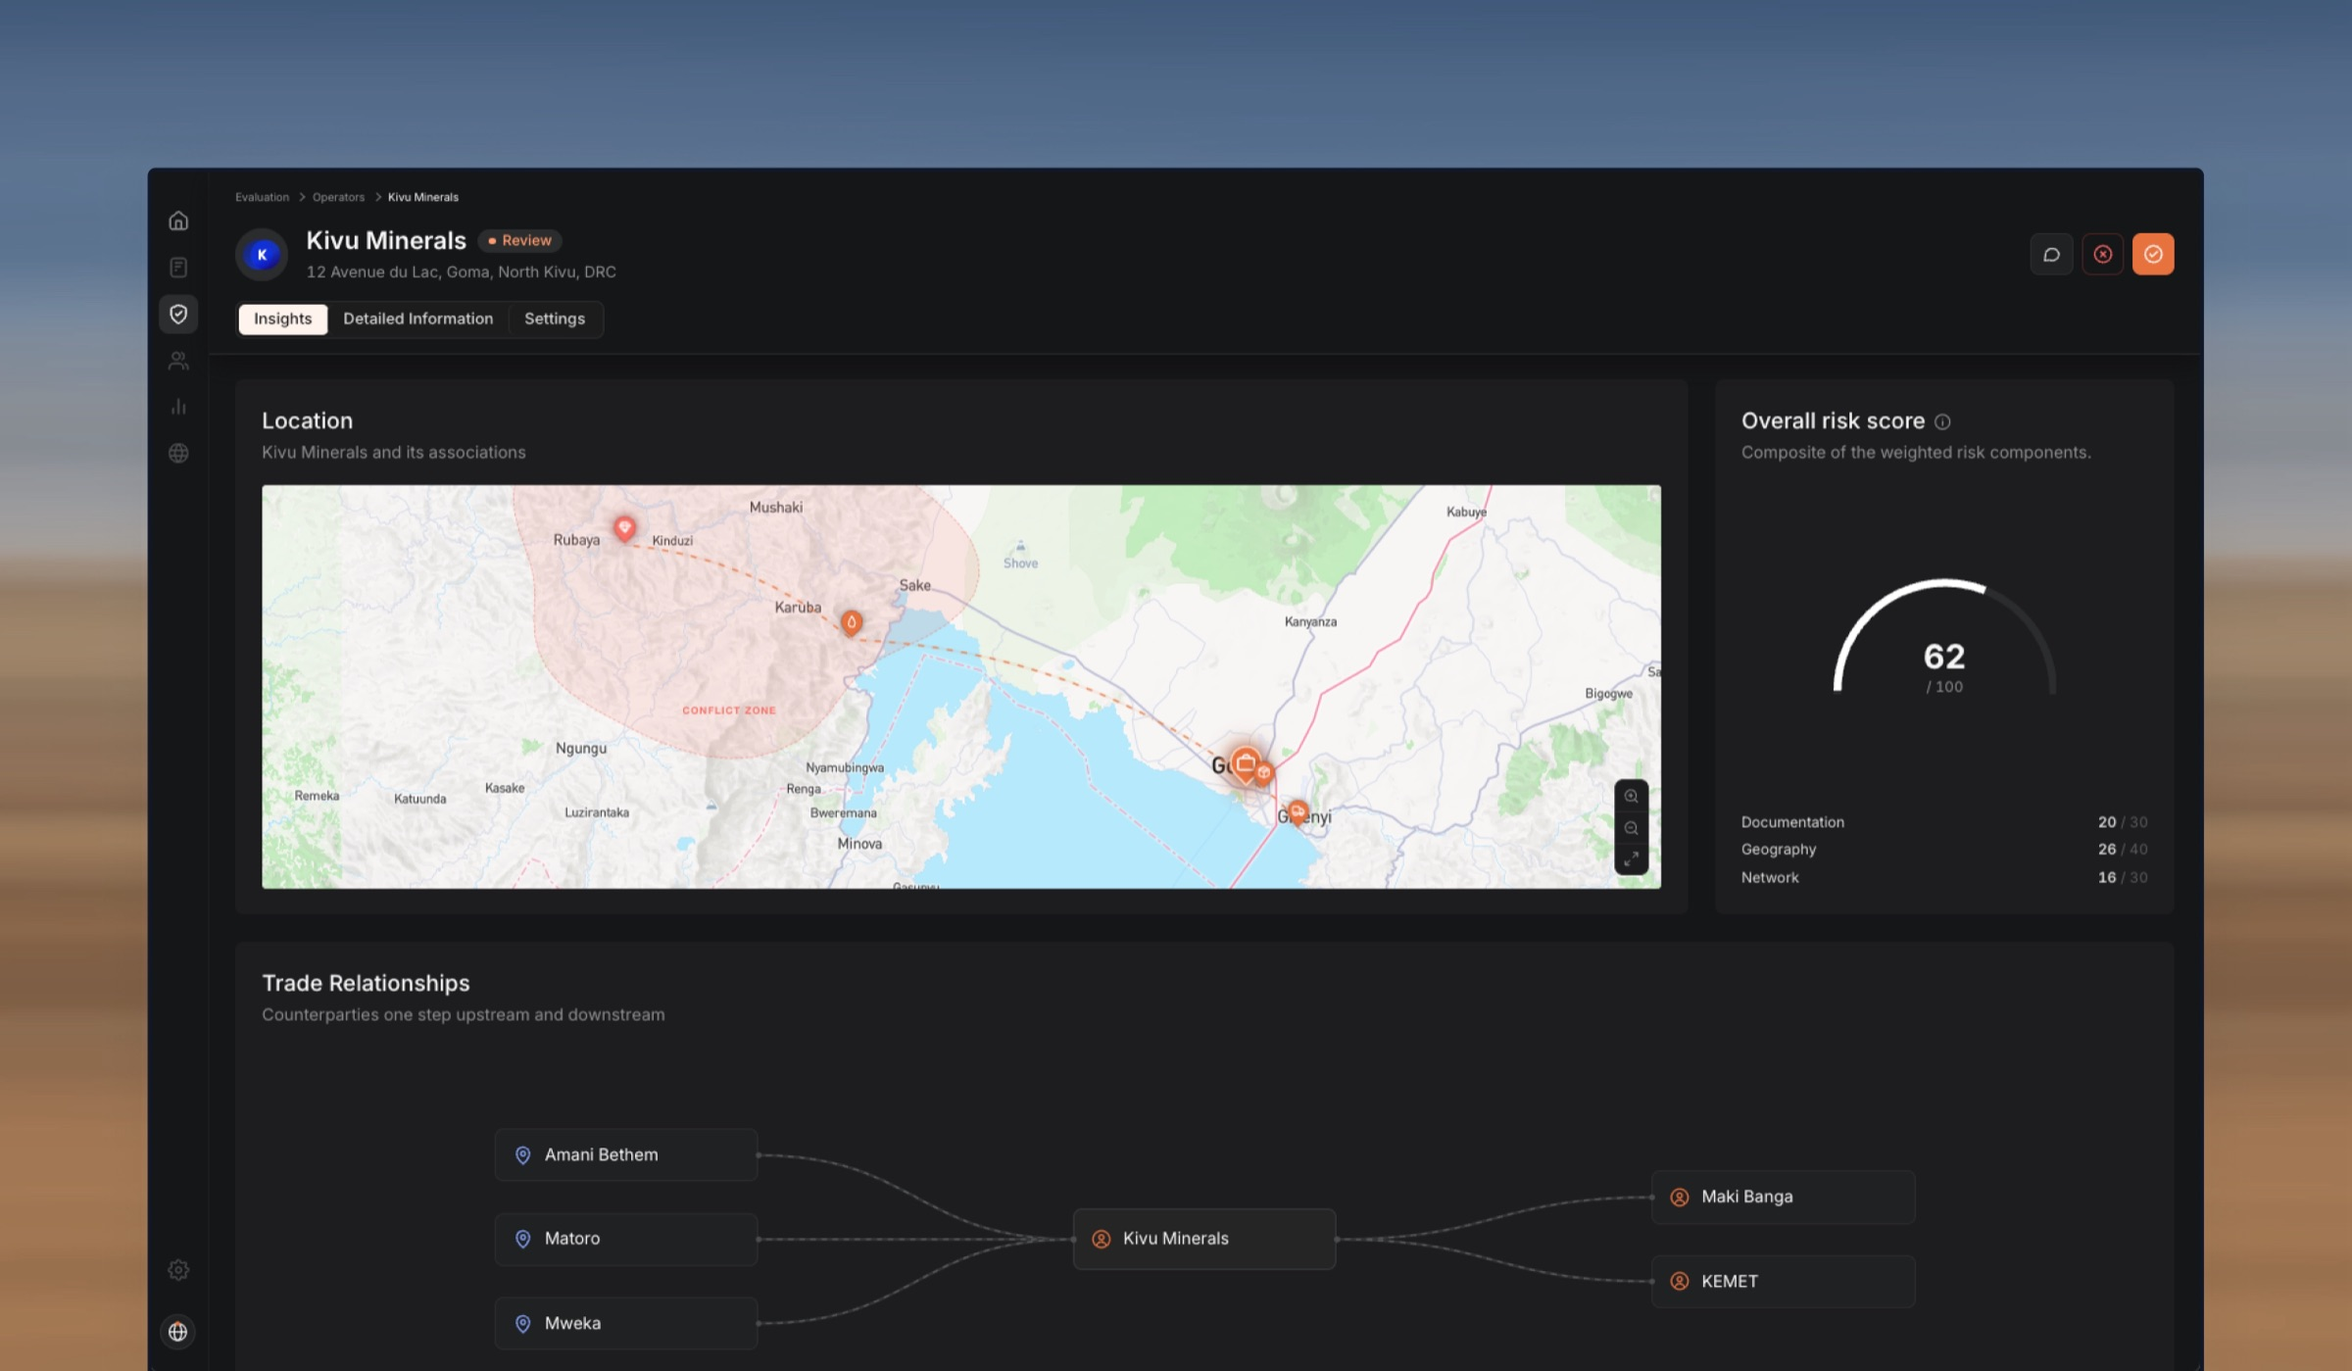
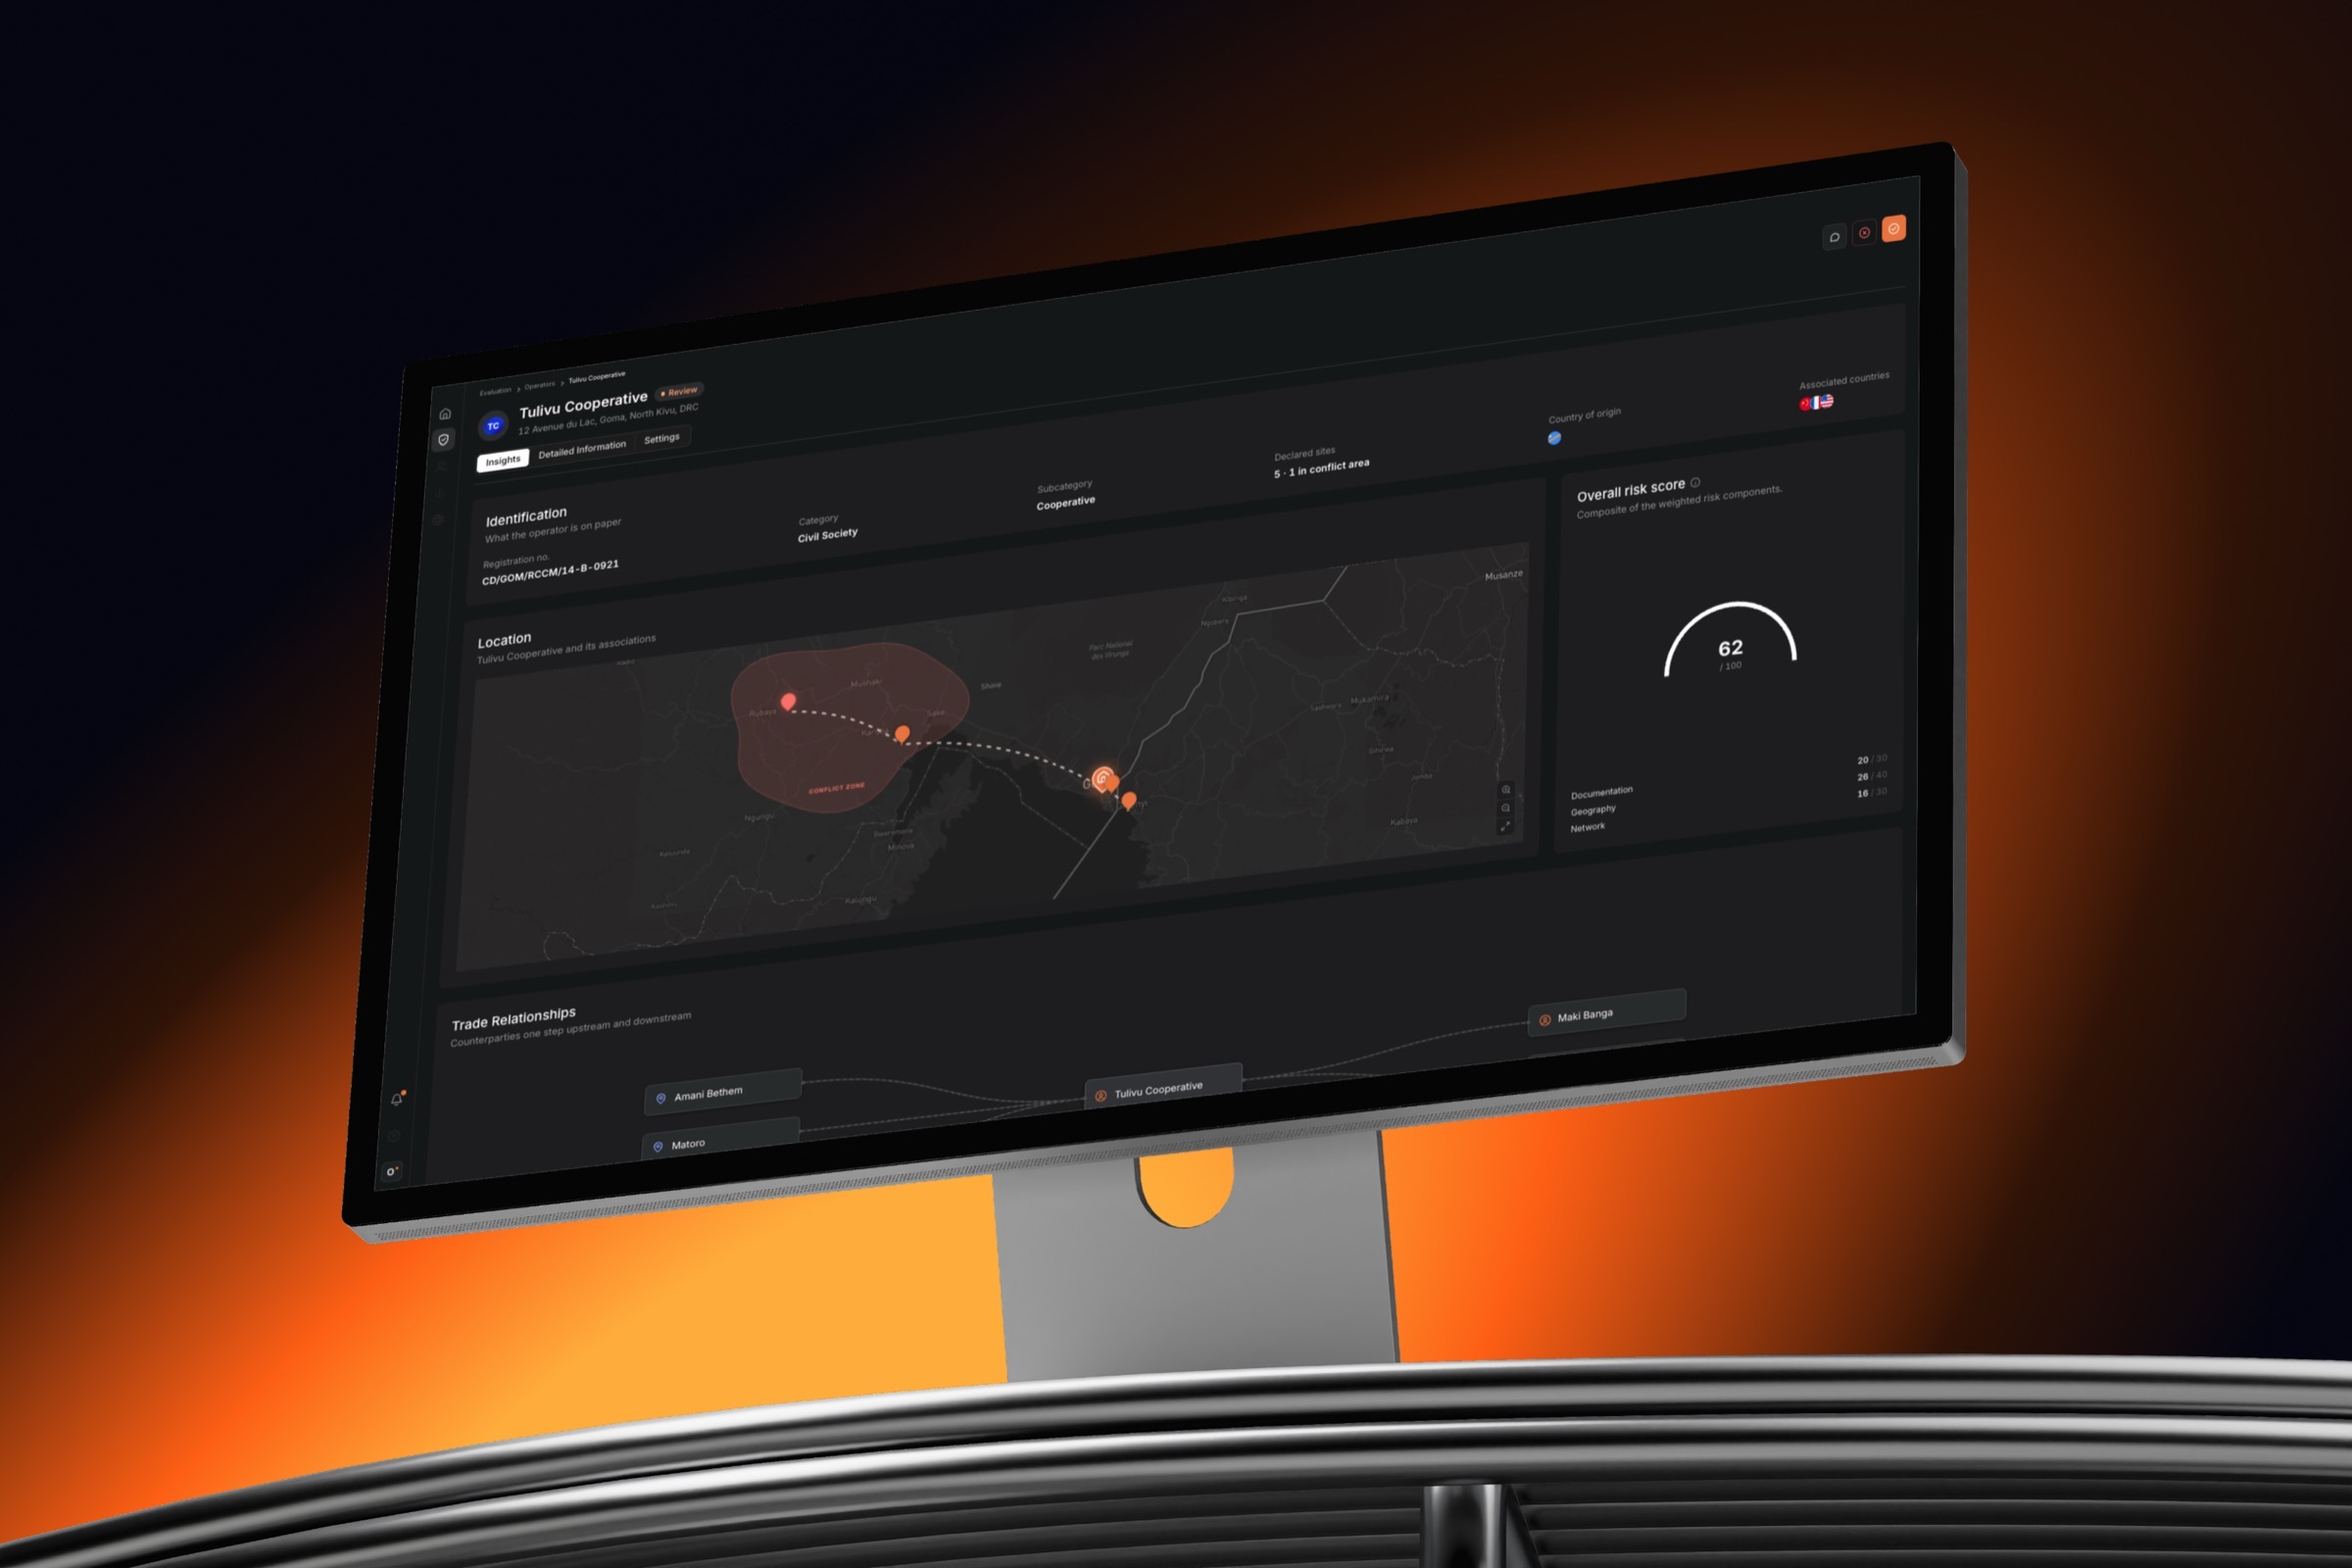
New Kota cover
Your export, resized to 2400 wide and recompressed: 6143x4096 and 5.6MB
down to 2400x1600 and 262KB. The cover is shared by five pages, so the
cache-busting query went up on all of them, not just the card that
prompted it.

Alt text now describes the monitor shot rather than the flat crop it
replaced.

diff --git a/index.html b/index.html
@@ -1157,7 +1157,7 @@
  <a href="projects/kota.html" class="case-card-link">
  <article class="case-card r">
  <div class="case-thumb case-thumb--hero case-thumb--kota">
- <img src="projects/assets/kota-cover.jpg?v=3" alt="Kota, the operator review a bank opens: the operator's sites on a map, its trade relationships and its risk score">
+ <img src="projects/assets/kota-cover.jpg?v=4" alt="Kota on a monitor: the operator review a bank opens, with the operator's declared sites on a map of North Kivu, the route between them crossing a conflict-affected area, an overall risk score of 62 out of 100, and the trade relationships below">
  <div class="case-panel">
  <span class="cp-tag" data-i18n="c4_tag">Onboarding &amp; Due Diligence</span>
  <p class="cp-title" data-i18n="c4_t">Kota, Counterparty due-diligence infrastructure</p>

diff --git a/projects/kota.html b/projects/kota.html
@@ -4164,7 +4164,7 @@
  <section class="case-hero">
  <div class="wrap">
  <div class="case-hero-mockup r">
- <img src="assets/kota-cover.jpg?v=3" alt="Kota operator review: the operator file, with its declared sites on a map of North Kivu and a conflict-affected area drawn over one of them, an overall risk score of 62 out of 100 broken into documentation, geography and network, and the trade relationships graph below">
+ <img src="assets/kota-cover.jpg?v=4" alt="Kota on a monitor: the operator review a bank opens, with the operator's declared sites on a map of North Kivu and a conflict-affected area drawn over one of them, an overall risk score of 62 out of 100 broken into documentation, geography and network, and the trade relationships graph below">
  </div>
  </div>
  </section>

diff --git a/projects/supply-chain.html b/projects/supply-chain.html
@@ -1963,7 +1963,7 @@
          </a>
          <div class="sidebar-card sidebar-card--soon" aria-disabled="true">
           <div class="sidebar-card-thumb">
-           <img src="assets/kota-cover.jpg?v=3" alt="Kota, Counterparty due-diligence infrastructure">
+           <img src="assets/kota-cover.jpg?v=4" alt="Kota, Counterparty due-diligence infrastructure">
            <span class="sidebar-card-overlay" aria-hidden="true"><span data-i18n="next_soon">Coming soon</span></span>
           </div>
          </div>

diff --git a/projects/straatos.html b/projects/straatos.html
@@ -3218,7 +3218,7 @@
   </a>
   <div class="sidebar-card sidebar-card--soon" aria-disabled="true">
    <div class="sidebar-card-thumb">
-    <img src="assets/kota-cover.jpg?v=3" alt="Kota, Counterparty due-diligence infrastructure">
+    <img src="assets/kota-cover.jpg?v=4" alt="Kota, Counterparty due-diligence infrastructure">
     <span class="sidebar-card-overlay" aria-hidden="true"><span data-i18n="next_soon">Coming soon</span></span>
    </div>
   </div>

diff --git a/projects/wazi.html b/projects/wazi.html
@@ -2230,7 +2230,7 @@
   </a>
   <div class="sidebar-card sidebar-card--soon" aria-disabled="true">
    <div class="sidebar-card-thumb">
-    <img src="assets/kota-cover.jpg?v=3" alt="Kota, Counterparty due-diligence infrastructure">
+    <img src="assets/kota-cover.jpg?v=4" alt="Kota, Counterparty due-diligence infrastructure">
     <span class="sidebar-card-overlay" aria-hidden="true"><span data-i18n="next_soon">Coming soon</span></span>
    </div>
   </div>
